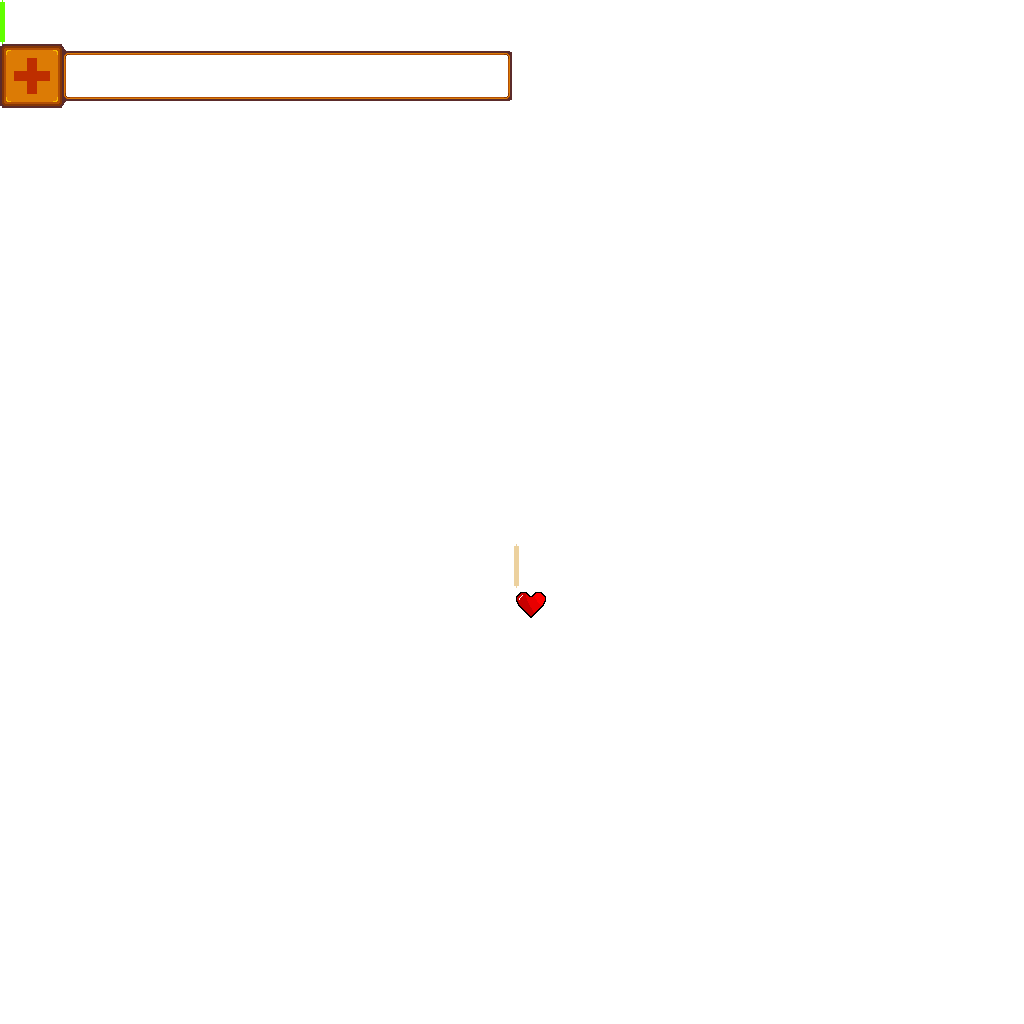
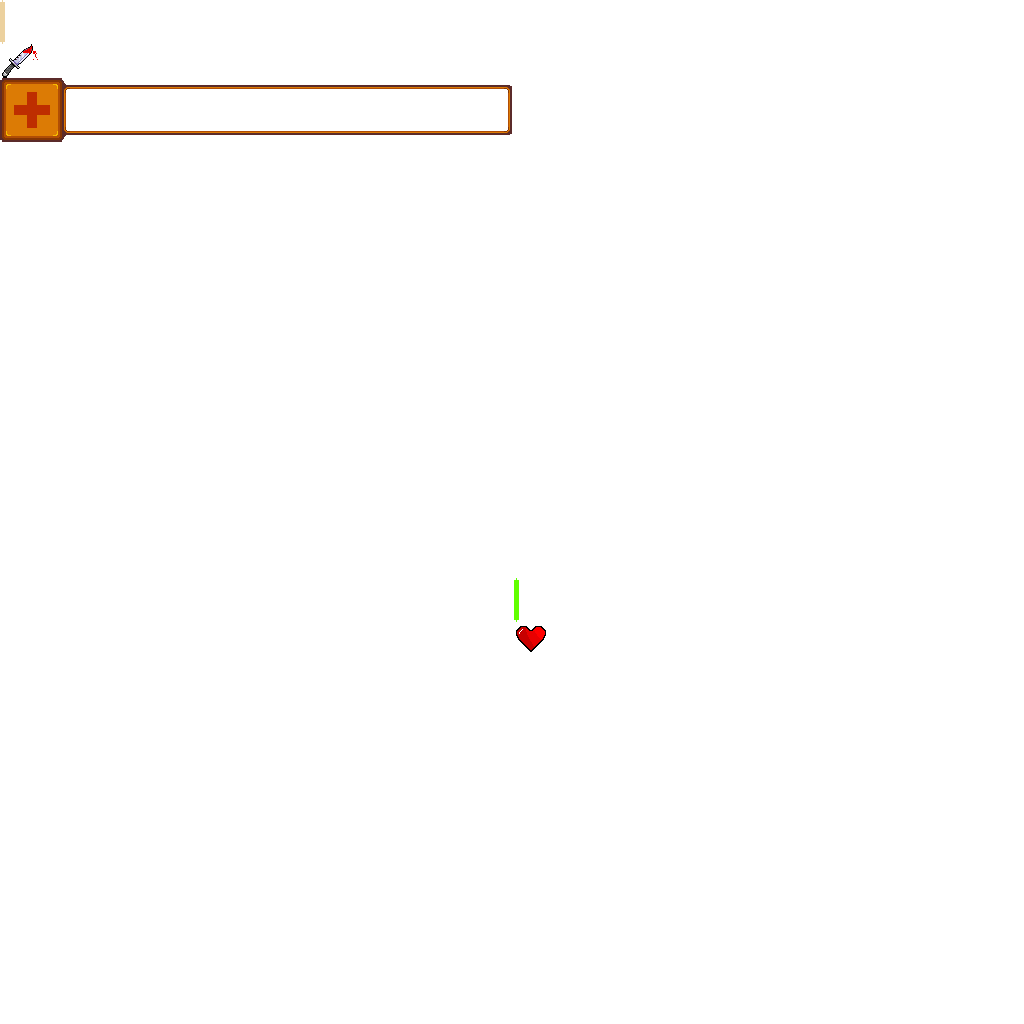
Added weapon strength display to the HUD

Changed region(s): [[0.0, 0.0, 0.5, 0.1562], [0.5, 0.5312, 0.5312, 0.6562]]

diff --git a/core/src/itcom/gangstersquirrel/Scenes/PlayScreenHud.java b/core/src/itcom/gangstersquirrel/Scenes/PlayScreenHud.java
@@ -26,6 +26,7 @@ public class PlayScreenHud {
     private Label timerLabel;
     private ProgressBar healthBar;
     private ImageTextButton lifesImageTextButton;
+    private ImageTextButton weaponStrengthImageTextButton;
 
     public PlayScreenHud(PlayScreen playScreen) {
         this.playScreen = playScreen;
@@ -56,11 +57,16 @@ public class PlayScreenHud {
         lifesImageTextButton = new ImageTextButton(String.valueOf(playScreen.getGameProgress().getPlayerLifes()), skin, "lifes");
         lifesImageTextButton.setStyle(changeImageTextButtonStyle(lifesImageTextButton.getStyle(), "fonts/PressStart2P.ttf", 48));
 
+        weaponStrengthImageTextButton = new ImageTextButton(String.valueOf(playScreen.getGameProgress().getPlayerWeaponList().get(playScreen.getGameProgress().getCurrentlyEquippedWeapon()).getStrength()), skin, "weapon_strength");
+        weaponStrengthImageTextButton.setStyle(changeImageTextButtonStyle(weaponStrengthImageTextButton.getStyle(), "fonts/PressStart2P.ttf", 48));
+
         layoutTable.add(healthBar).expandX().growX().left().top().spaceBottom(25);
         layoutTable.add(new Actor()).expandX().fillX().center().top().spaceBottom(25);
         layoutTable.add(timerLabel).expandX().right().top().spaceBottom(25);
         layoutTable.row();
-        layoutTable.add(lifesImageTextButton).expandX().left().top();
+        layoutTable.add(lifesImageTextButton).expandX().left().top().spaceBottom(10);
+        layoutTable.row();
+        layoutTable.add(weaponStrengthImageTextButton).expandX().left().top().spaceBottom(10);
 
         stage.addActor(layoutTable);
     }
@@ -69,6 +75,7 @@ public class PlayScreenHud {
         timerLabel.setText(String.format("%04d", playScreen.getTimer()));
         healthBar.setValue(playScreen.getPlayer().getHealth());
         lifesImageTextButton.setText(String.valueOf(playScreen.getGameProgress().getPlayerLifes()));
+        weaponStrengthImageTextButton.setText(String.valueOf(playScreen.getGameProgress().getPlayerWeaponList().get(playScreen.getGameProgress().getCurrentlyEquippedWeapon()).getStrength()));
 
         // Toggle debug
         stage.setDebugAll(MainGameClass.DEBUG);
